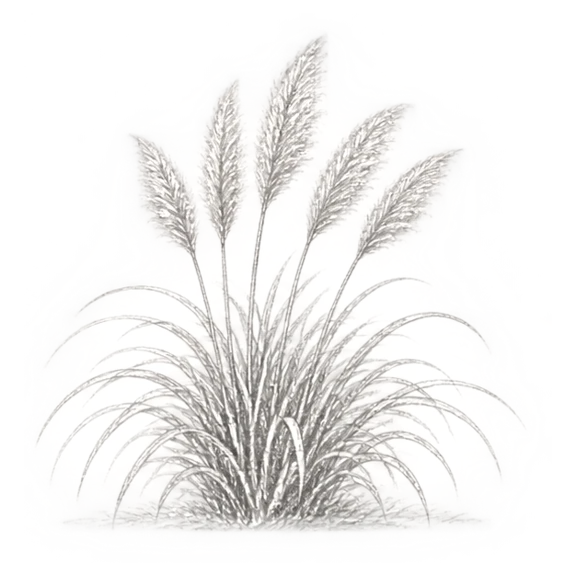
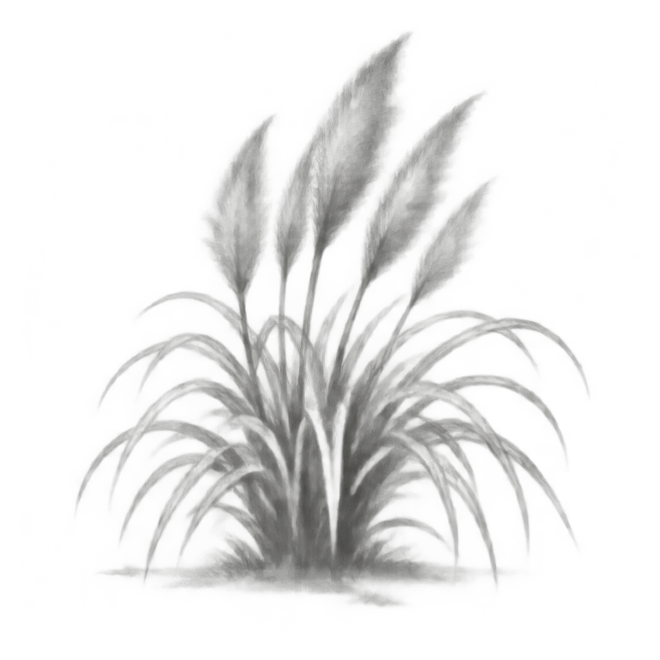
Ilustrar la flora y detallar los dos finales

diff --git a/PENDIENTES.md b/PENDIENTES.md
@@ -66,7 +66,9 @@ Al cierre de cada pasada se actualizan los puntos resueltos y se conserva lo que
 
 ## Pasada de flora y laderas
 
-- Cuatro espinillos en flor crecen en distintos claros, y diez cactus bajos se reparten en cuatro colonias entre lajas. Se puede dibujar cualquier ejemplar con E. Se guarda un croquis por tipo, con fecha, en «Flora y fauna». Los dos dibujos se cuelgan en el puesto a partir de la siguiente jornada y se guardan con los demás el último día.
+- Cuatro espinillos en flor crecen en distintos claros, y diez cactus bajos se reparten en cuatro colonias entre lajas. Se puede dibujar cualquier ejemplar con E. El croquis de cada tipo se guarda con su fecha en «Flora y fauna». Al dibujarlo desaparece la E en todos los ejemplares del mismo tipo, incluso al cargar. Los dibujos se cuelgan en el puesto a partir de la siguiente jornada y se guardan con los demás el último día.
+- El espinillo, la cortadera y el cactus tienen ilustraciones generadas al carboncillo, con fondo transparente. Las notas describen las plantas sin fijar el lugar del hallazgo.
+- El puesto de Mara tiene zócalo de piedra, revoque gastado, chapa acanalada y una puerta con tablas y herrajes. El ómnibus tiene chapa pintada con polvo en la parte baja, molduras, vidrios tintados, faros y ruedas con mazas. Al llegar a la parada se ve en tres cuartos.
 - Los afloramientos del borde tienen alturas escalonadas, lajas bajas y fragmentos al pie. En las lomas crecen grupos de paja y romerillo. Se bajó el brillo de la piedra clara y se hicieron más visibles el grano mineral, las manchas de líquenes y las vetas cortas. Las fotos del filo y las laderas sirvieron de referencia para combinar la piedra con el pastizal. [Fotos del Desafío UTU](https://github.com/gmonserrat25/desafio-utu/tree/ab3999af10fddd6b116bf622a99ef0d4bcb0fd05/assets/img)
 - Se revisaron el zorro gris pampeano de los arbustales y el cuis moro de los pastizales contra las fichas regionales. Las fichas incluyen Córdoba en la distribución de ambos. [Zorro gris pampeano](https://doi.org/10.31687/SaremLR.19.127) · [Cuis moro](https://doi.org/10.31687/SaremLR.19.332)
 
